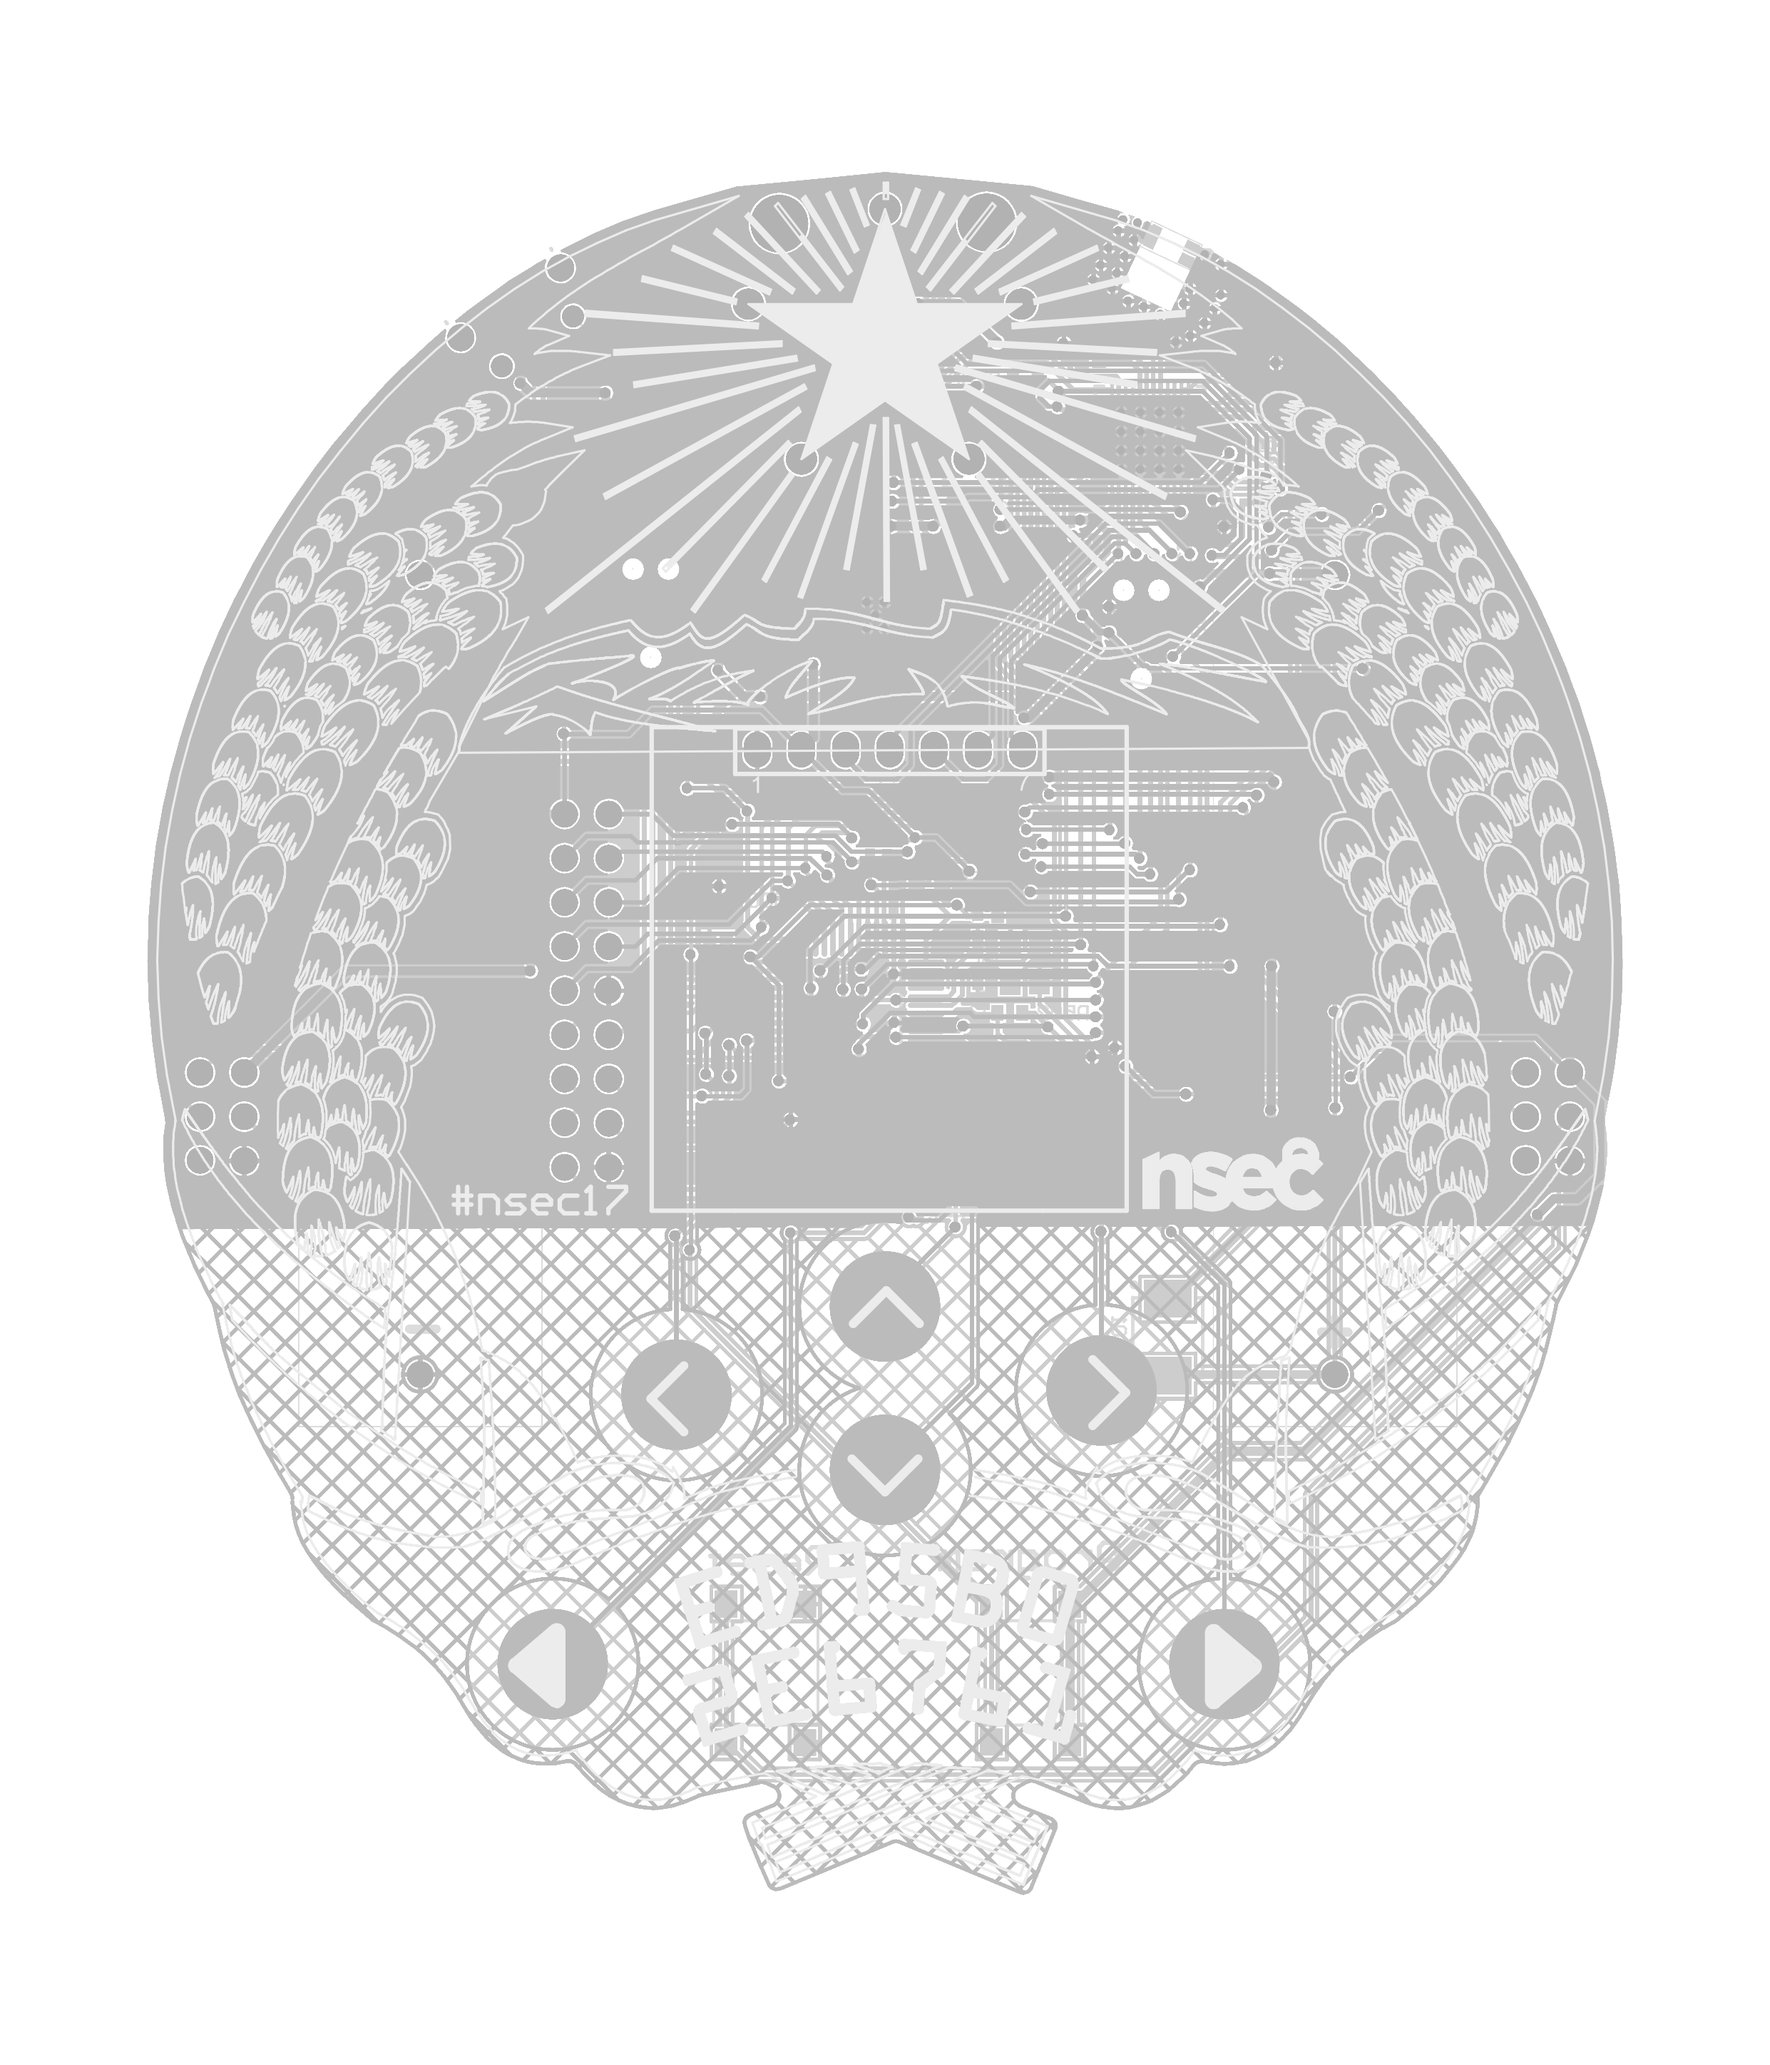
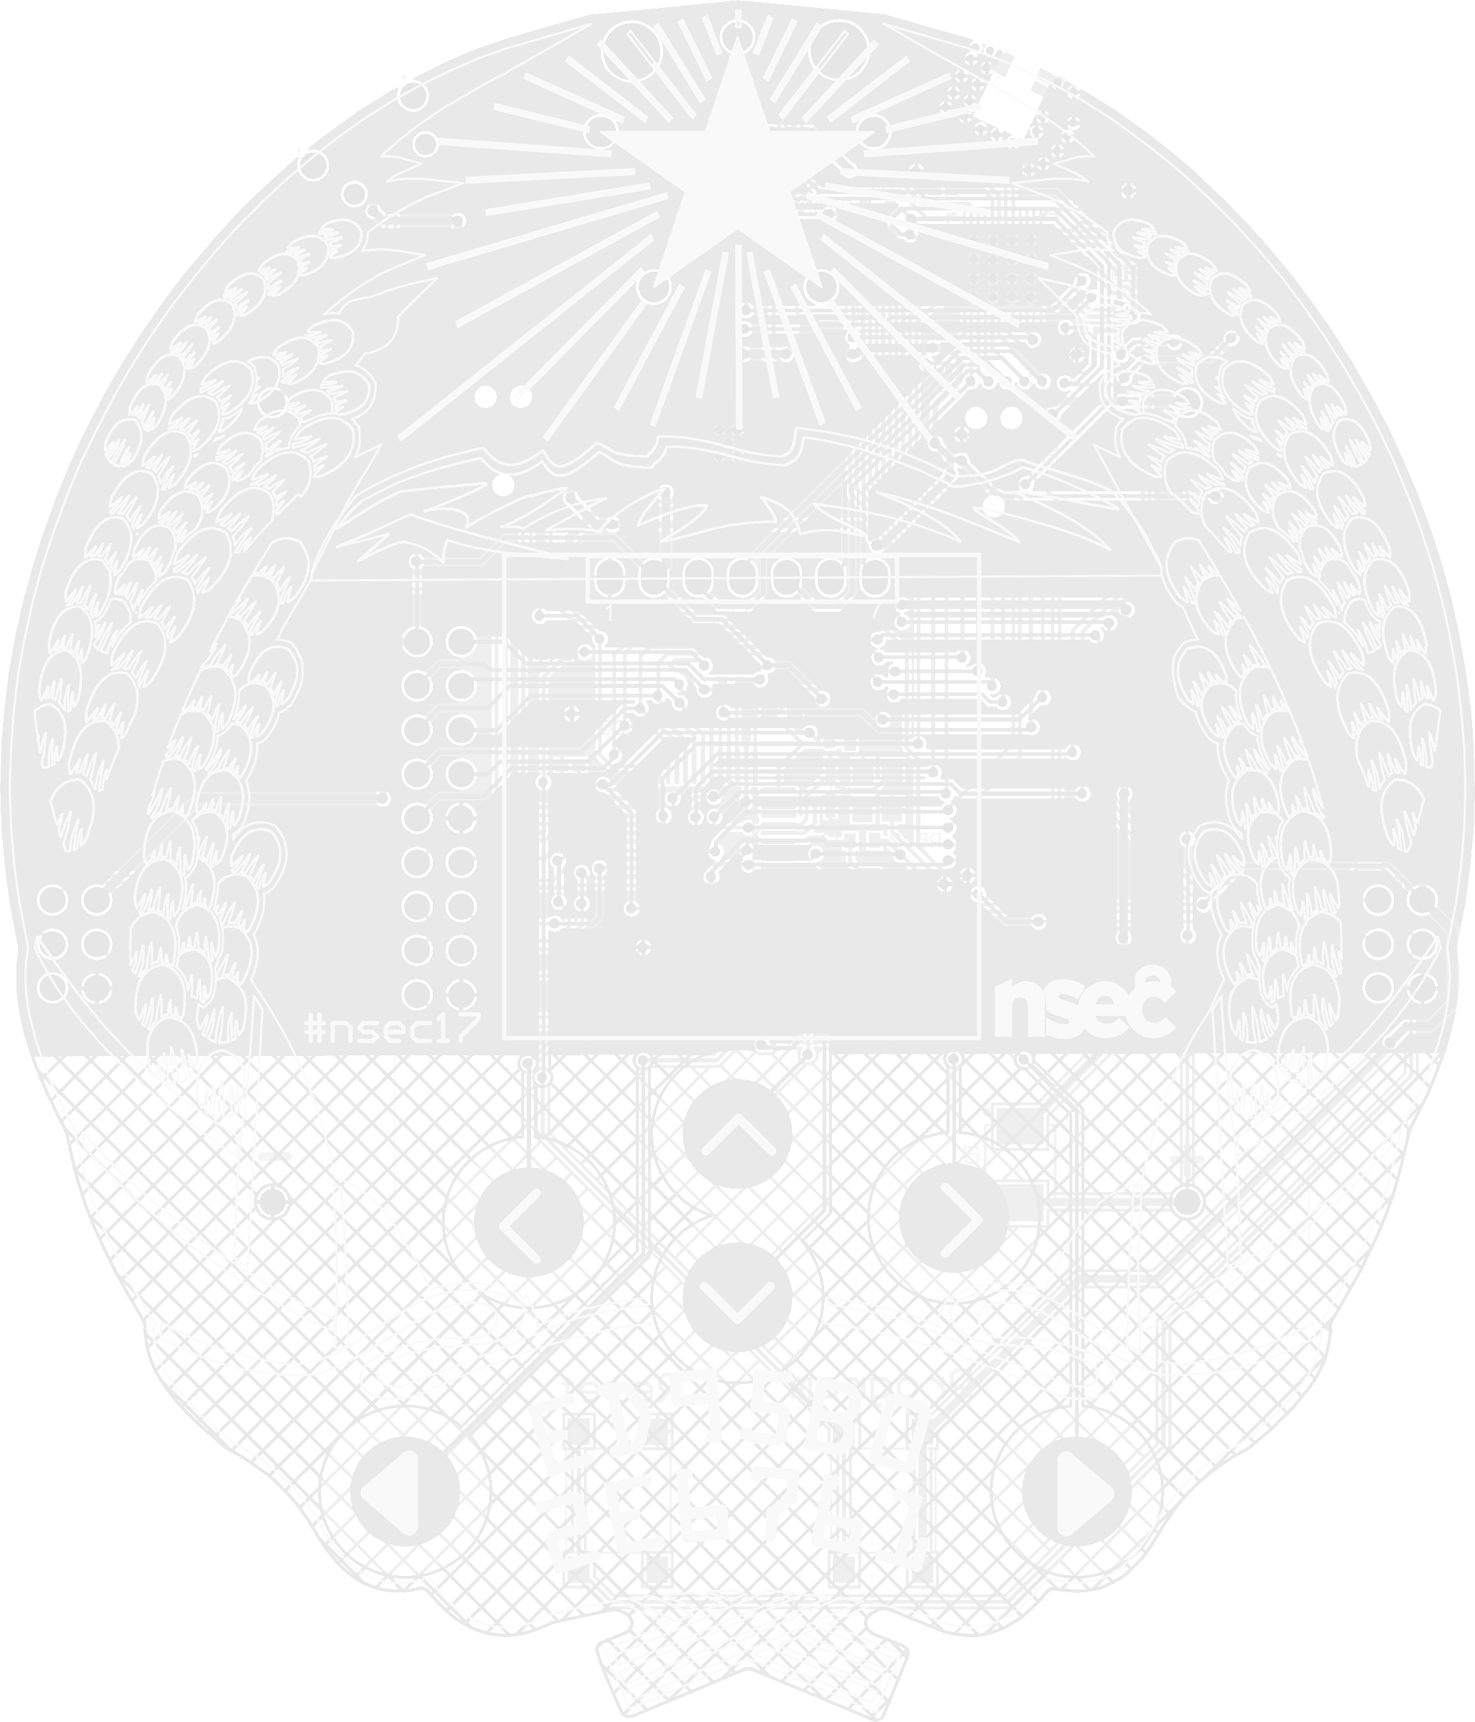
Ajust background contrast to increse readability

diff --git a/layout.css b/layout.css
@@ -1,8 +1,8 @@
 @import url('https://fonts.googleapis.com/css?family=Anonymous+Pro');
 
 body {
-    background: #1c75bc url(images/badge.png) no-repeat fixed 50% 20%;
-    background-size: 130%;
+    background: #1c75bc url(images/badge.png) no-repeat fixed 50% 3%;
+    background-size: 110%;
     color: #EEE;
     font-family: "Anonymous Pro", monospace;
     text-align: center;
